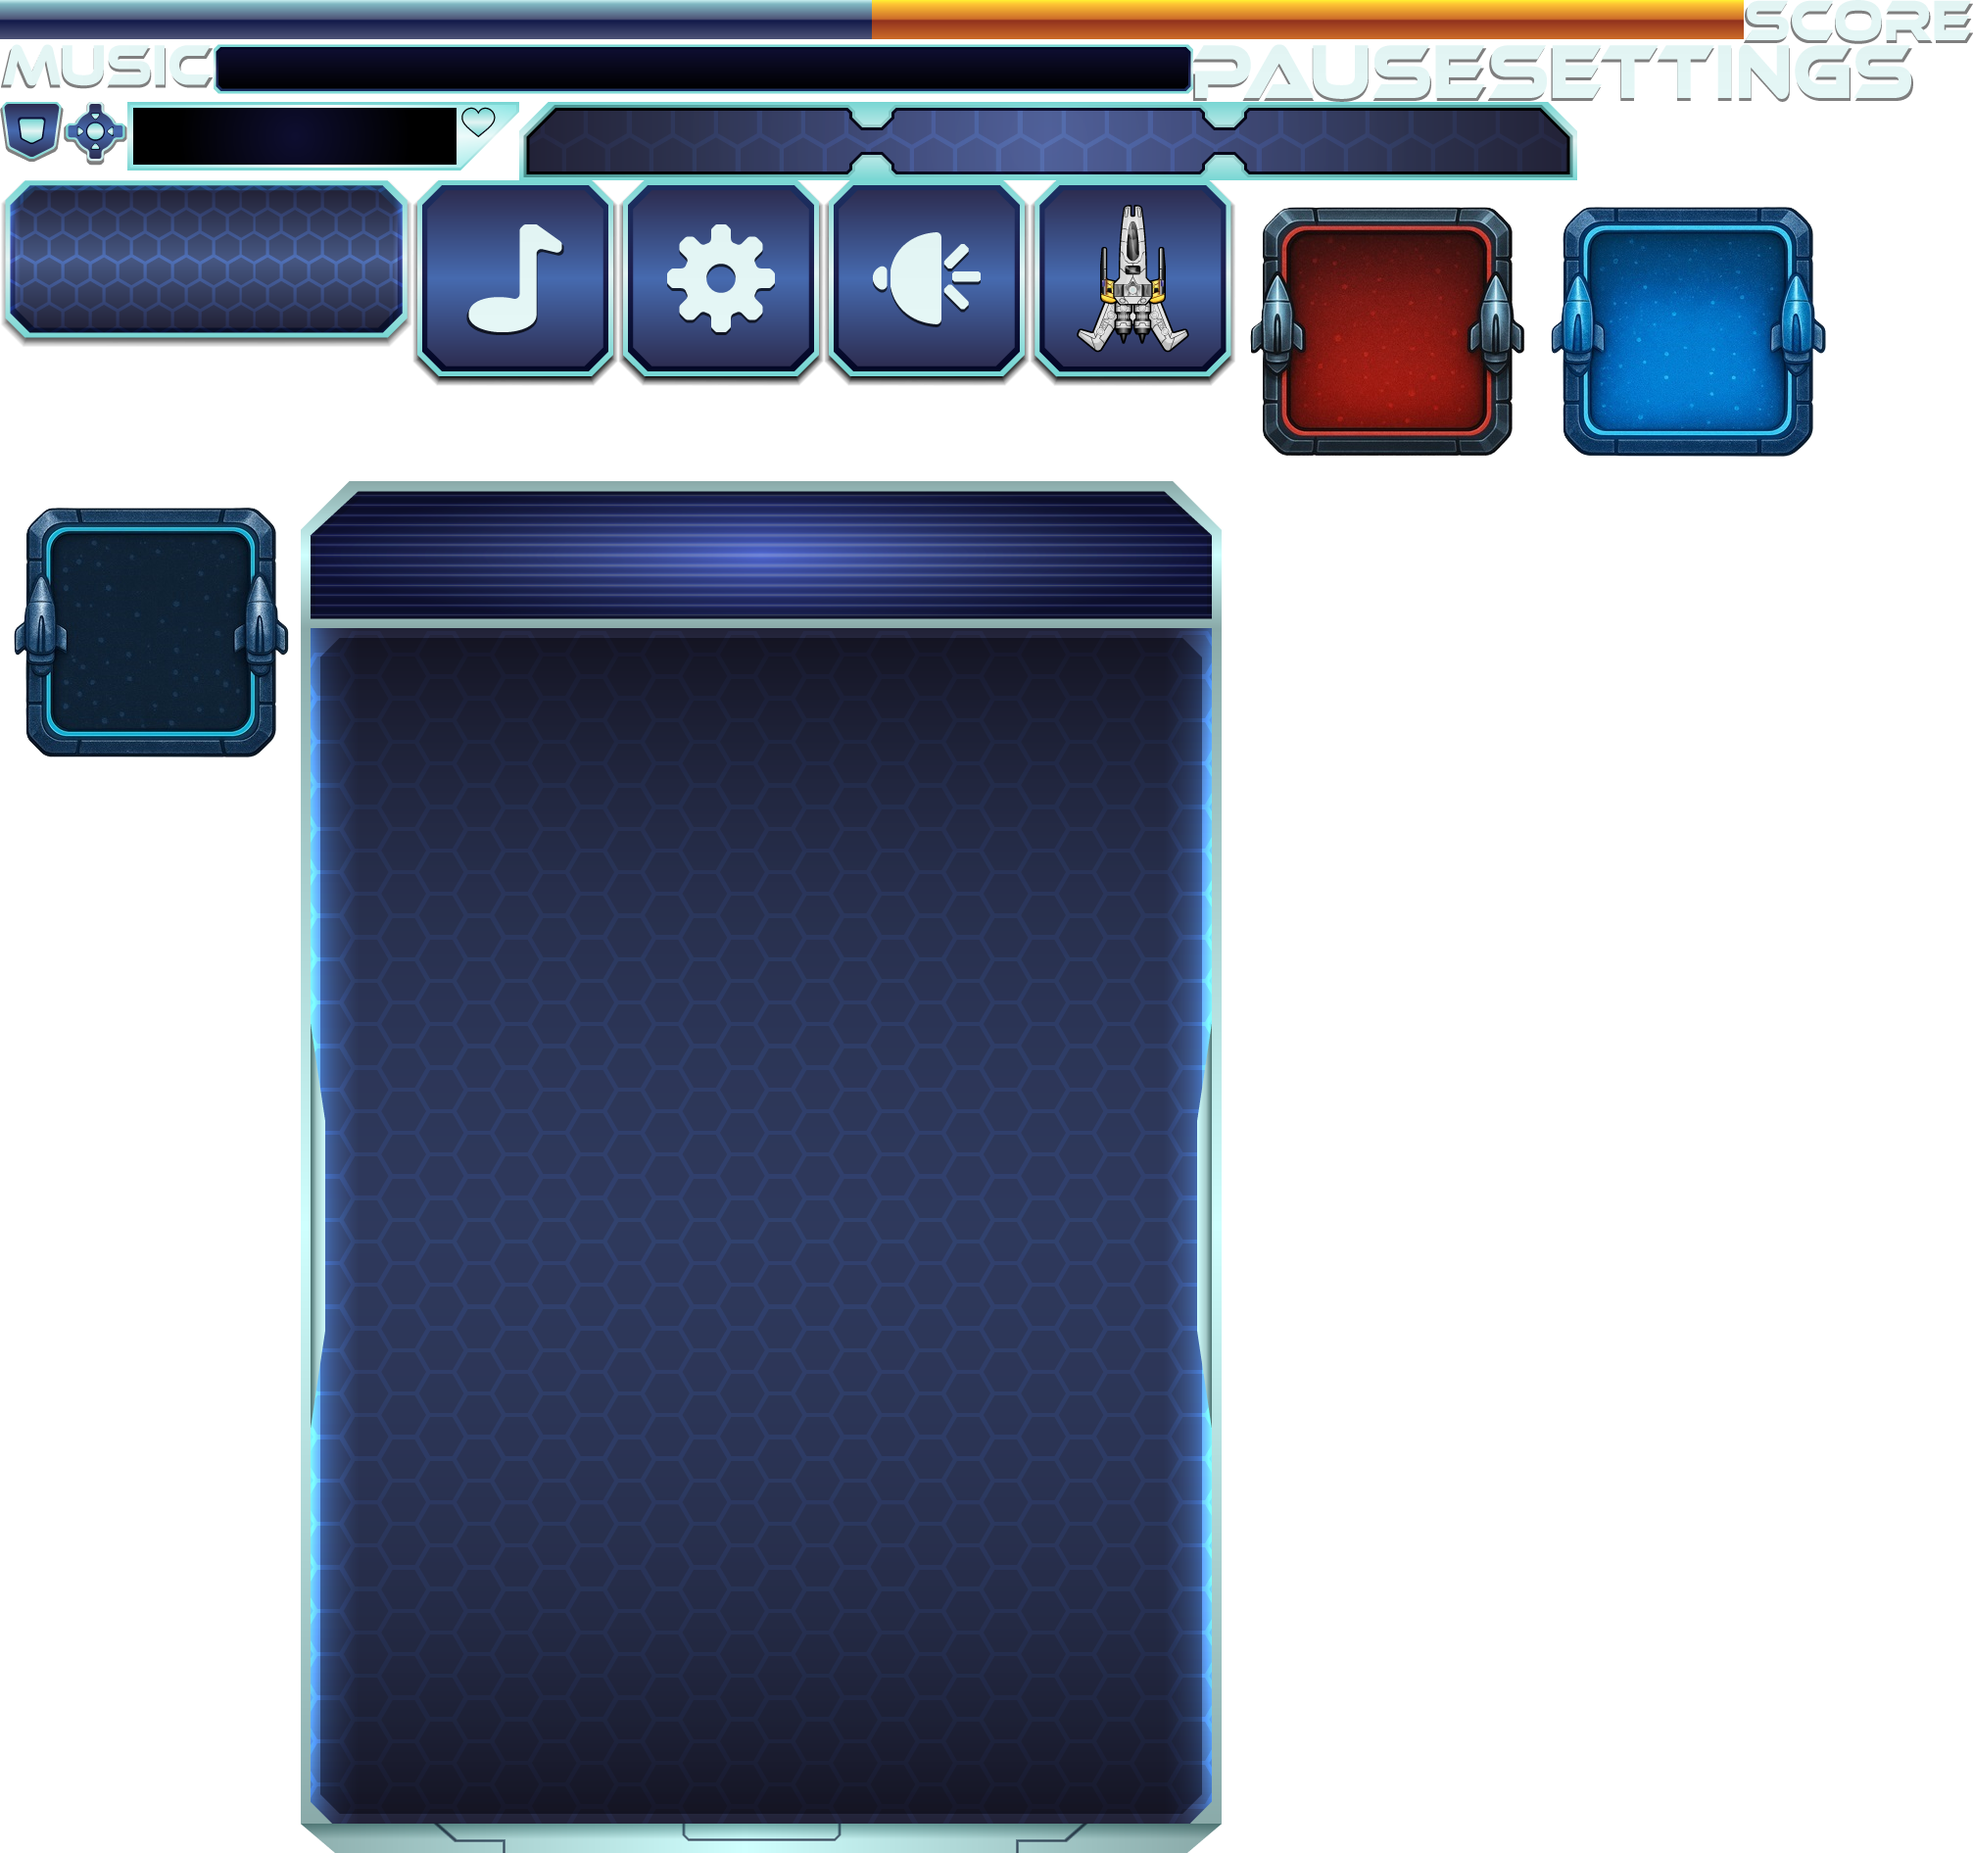
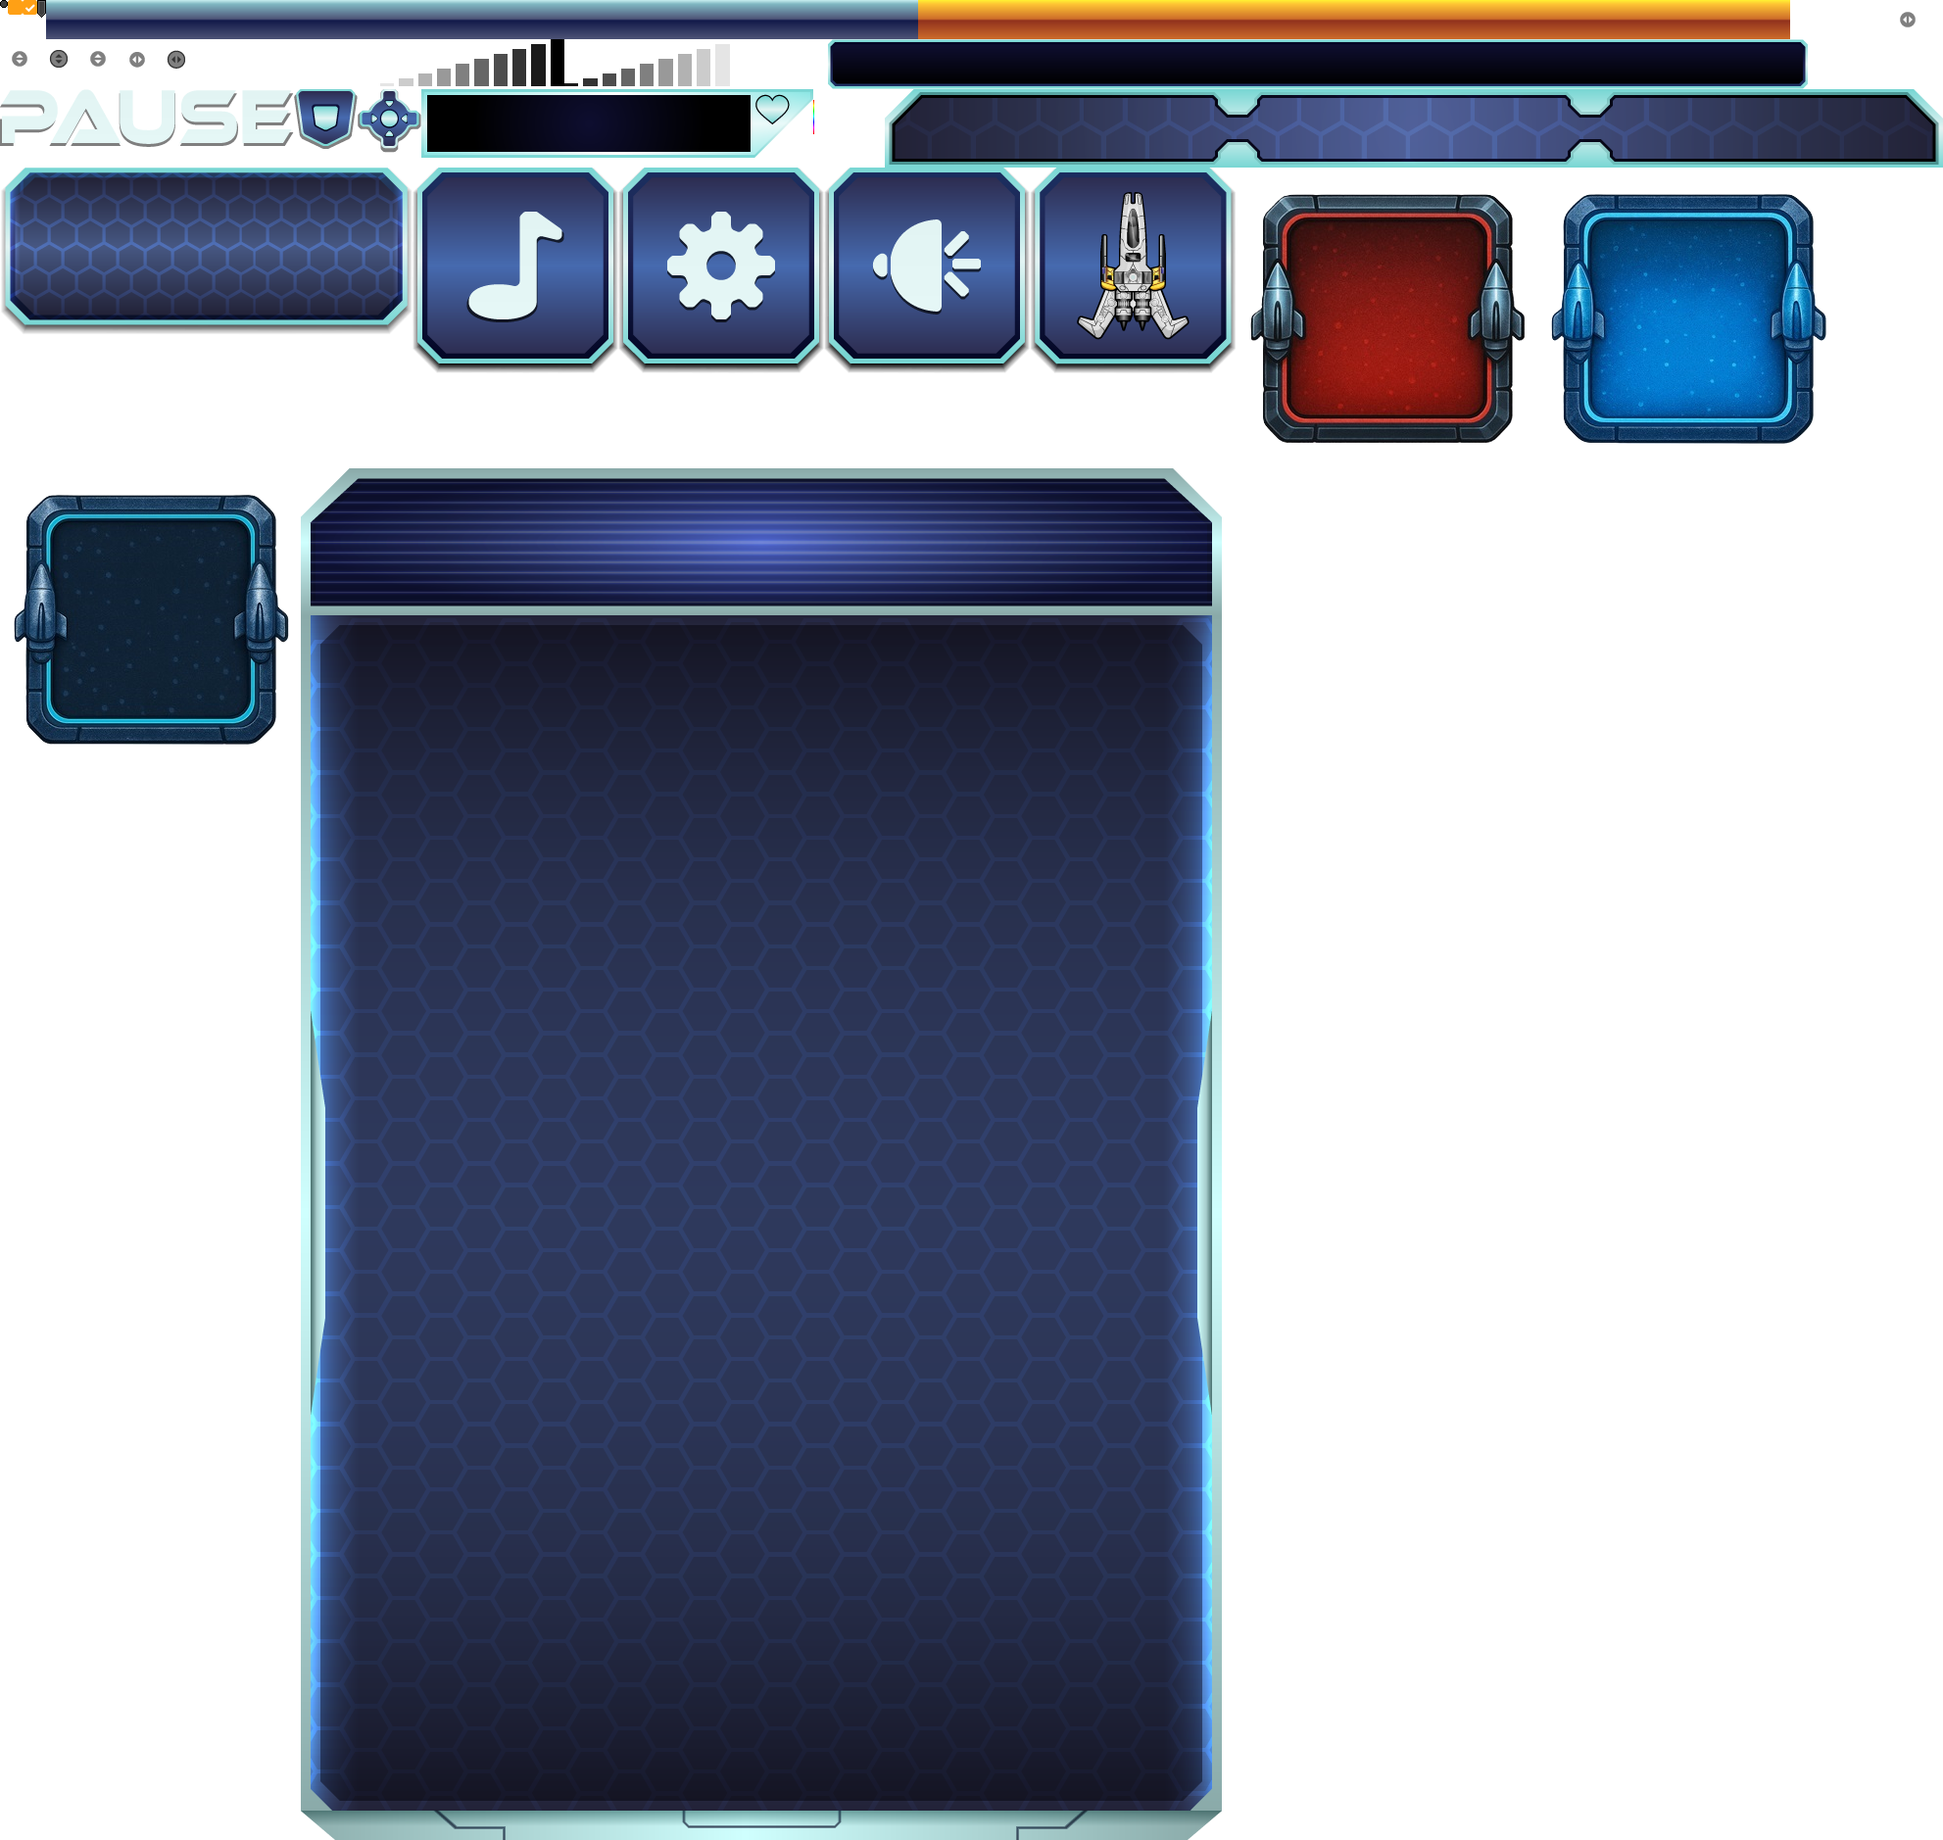
:sparkles: pause screen

Changed region(s): [[0.0, 0.0, 1.0, 0.2471], [0.0, 0.2471, 0.646, 1.0], [0.5229, 0.9883, 0.5537, 1.0]]

diff --git a/core/src/main/java/com/svalero/game/screen/PauseScreen.java b/core/src/main/java/com/svalero/game/screen/PauseScreen.java
@@ -1,6 +1,5 @@
 package com.svalero.game.screen;
 
-
 import com.badlogic.gdx.Gdx;
 import com.badlogic.gdx.Screen;
 import com.badlogic.gdx.graphics.GL20;
@@ -9,6 +8,7 @@ import com.badlogic.gdx.scenes.scene2d.InputEvent;
 import com.badlogic.gdx.scenes.scene2d.Stage;
 import com.badlogic.gdx.scenes.scene2d.ui.*;
 import com.badlogic.gdx.scenes.scene2d.utils.ClickListener;
+import com.badlogic.gdx.scenes.scene2d.utils.TextureRegionDrawable;
 import com.badlogic.gdx.utils.Align;
 import com.badlogic.gdx.utils.Scaling;
 import com.badlogic.gdx.utils.viewport.ScreenViewport;
@@ -19,13 +19,14 @@ import lombok.Data;
 import java.io.File;
 
 import static com.svalero.game.constants.Constants.*;
+import static com.svalero.game.constants.Constants.HEIGHT_BUTTON_GAME_OVER;
 
 @Data
-public class GameOverScreen implements Screen {
+public class PauseScreen implements Screen {
 
     private MyGame game;
 
-    private float score;
+    private GameScreen gameScreen;
 
     private Stage stage;
 
@@ -33,14 +34,13 @@ public class GameOverScreen implements Screen {
 
     private TextureRegion background;
 
-    public GameOverScreen(MyGame game, float score) {
+    public PauseScreen(MyGame game, GameScreen gameScreen) {
         this.game = game;
-        this.score = score;
+        this.gameScreen = gameScreen;
         stage = new Stage(new ScreenViewport());
         Gdx.input.setInputProcessor(stage);
         this.skin = new Skin(Gdx.files.internal(UI + File.separator + MENU_SKIN));
         this.background = R.getUITexture(WINDOW);
-
     }
 
     @Override
@@ -110,25 +110,46 @@ public class GameOverScreen implements Screen {
         table.pad(PADDING_GAME_OVER_TABLE);
 
         // 60% width, 100% height
-        table.setWidth(Gdx.graphics.getWidth() * 0.6f);
-        table.setHeight(Gdx.graphics.getHeight());
+        float tableWidth = Gdx.graphics.getWidth() * 0.6f;
+        float tableHeight = Gdx.graphics.getHeight();
 
-        Label gameOverLabel = new Label("GAME OVER", skin, "title");
-        gameOverLabel.setAlignment(Align.center);
+        table.setSize(tableWidth, tableHeight);
 
-        Label scoreLabel = new Label("SCORE", skin);
-        String formatted = String.format("%06.0f", score);
-        Label scoreValue = new Label(formatted, skin, "title");
+        TextureRegion pauseHeaderRegion = R.getUITexture("Pause-Header");
+        Image pauseHeader = new Image(new TextureRegionDrawable(pauseHeaderRegion));
+        pauseHeader.setScaling(Scaling.fit);
 
-        TextButton newGameBtn = new TextButton("New Game", skin);
+        float headerWidth = tableWidth * 0.4f;
+        float headerHeight = tableHeight * 0.15f;
+
+        Label settingLabel = new Label("SETTING", skin, "title");
+        settingLabel.setAlignment(Align.left);
+
+        CheckBox musicCheckbox = new CheckBox("", skin, "default");
+        musicCheckbox.setChecked(true);
+        Label musicLabel = new Label("Music", skin);
+
+        Table musicRow = new Table();
+        musicRow.add(musicCheckbox).padRight(10);
+        musicRow.add(musicLabel);
+        musicRow.align(Align.left);
+
+        Label volumeLabel = new Label("Volume", skin);
+        Slider volumeSlider = new Slider(0f, 1f, 0.01f, false, skin, "default-horizontal");
+        volumeSlider.getStyle().background.setMinHeight(20); // Altura mínima
+        volumeSlider.setWidth(WIDTH_SLIDER);
+        volumeSlider.getStyle().knob.setMinWidth(WIDTH_KNOB);
+        volumeSlider.getStyle().knob.setMinHeight(HEIGHT_KNOB);
+
+        TextButton resumeBtn = new TextButton("Resume", skin);
         TextButton menuBtn = new TextButton("Return to Main Menu", skin);
         TextButton exitBtn = new TextButton("Exit", skin);
 
         // Listeners
-        newGameBtn.addListener(new ClickListener() {
+        resumeBtn.addListener(new ClickListener() {
             @Override
             public void clicked(InputEvent event, float x, float y) {
-                game.setScreen(new GameScreen(game));
+                game.setScreen(gameScreen);
             }
         });
 
@@ -146,12 +167,16 @@ public class GameOverScreen implements Screen {
             }
         });
 
-        table.add(gameOverLabel).padBottom(PADDING_GAME_OVER_TITLE).row();
-        table.add(scoreLabel).padBottom(PADDING_GAME_OVER_SCORE).row();
-        table.add(scoreValue).padBottom(PADDING_GAME_OVER_SCORE_VALUE).row();
-        table.add(newGameBtn).padBottom(PADDING_BUTTON).width(WIDTH_BUTTON_GAME_OVER).height(HEIGHT_BUTTON_GAME_OVER).row();
-        table.add(menuBtn).padBottom(PADDING_BUTTON).width(WIDTH_BUTTON_GAME_OVER).height(HEIGHT_BUTTON_GAME_OVER).row();
+        table.add(pauseHeader).width(headerWidth).height(headerHeight)
+            .padBottom(PADDING_BUTTON).center().row();
+        table.add(settingLabel).center().padBottom(PADDING_SETTING_LABEL).row();
+        table.add(musicRow).center().padBottom(PADDING_BUTTON).row();
+        table.add(volumeLabel).padBottom(PADDING_BUTTON).center().row();
+        table.add(volumeSlider).width(WIDTH_SLIDER).height(HEIGHT_SLIDER).padBottom(PADDING_BUTTON).row();
+        table.add(resumeBtn).width(WIDTH_BUTTON_GAME_OVER).height(HEIGHT_BUTTON_GAME_OVER).padBottom(PADDING_BUTTON).row();
+        table.add(menuBtn).width(WIDTH_BUTTON_GAME_OVER).height(HEIGHT_BUTTON_GAME_OVER).padBottom(PADDING_BUTTON).row();
         table.add(exitBtn).width(WIDTH_BUTTON_GAME_OVER).height(HEIGHT_BUTTON_GAME_OVER).row();
+
         return table;
     }
 }

diff --git a/core/src/main/java/com/svalero/game/managers/LogicManager.java b/core/src/main/java/com/svalero/game/managers/LogicManager.java
@@ -4,10 +4,13 @@ import com.badlogic.gdx.Gdx;
 import com.badlogic.gdx.Input;
 import com.badlogic.gdx.math.Rectangle;
 import com.badlogic.gdx.math.Vector2;
+import com.badlogic.gdx.utils.TimeUtils;
 import com.svalero.game.MyGame;
 import com.svalero.game.characters.*;
 import com.svalero.game.characters.Character;
 import com.svalero.game.screen.GameOverScreen;
+import com.svalero.game.screen.GameScreen;
+import com.svalero.game.screen.PauseScreen;
 import com.svalero.game.utils.Level;
 import lombok.AllArgsConstructor;
 import lombok.Data;
@@ -41,9 +44,14 @@ public class LogicManager {
 
     private float levelCompleteTimer;
 
+    private GameScreen gameScreen;
 
-    public LogicManager(MyGame game) {
+    private float freezeTime;
+
+
+    public LogicManager(MyGame game, GameScreen gameScreen) {
         this.game = game;
+        this.gameScreen = gameScreen;
         this.ranger = new Ranger();
         this.enemyManager = new EnemyManager();
         this.levelManager = new LevelManager();
@@ -51,6 +59,7 @@ public class LogicManager {
         this.numberLevel = 1;
         this.isLevelOver = false;
         this.levelCompleteTimer = 0;
+        this.freezeTime = 0;
         initializeLevel();
     }
 
@@ -119,9 +128,16 @@ public class LogicManager {
         if(Gdx.input.isKeyPressed(Input.Keys.S)){
             ranger.createProjectile();
         }
+
+        //Pause
+        if (Gdx.input.isKeyPressed(Input.Keys.ESCAPE)) {
+            freezeTime = TimeUtils.nanoTime() / 1_000_000_000f;
+            game.setScreen(new PauseScreen(game, gameScreen));
+        }
     }
 
     public void update(float dt) {
+
         handleInput(dt);
         ranger.update(dt);
         enemyManager.update(dt, ranger.getPosition());
@@ -258,5 +274,17 @@ public class LogicManager {
             }else
                 index++;
         }
+    }
+
+    public void adjustFreezeTime(){
+        float now = TimeUtils.nanoTime() / 1_000_000_000f;
+        float pausedDuration = now - freezeTime;
+        ranger.setLastShot(ranger.getLastShot() + pausedDuration);
+        for(Character enemy: enemyManager.getEnemies()){
+            //TODO actualizo a todos aunque no disparen
+            //Pendiente de refactorizar enemymanager
+            enemy.setLastShot(enemy.getLastShot() + pausedDuration);
+        }
+        freezeTime = 0;
     }
 }

diff --git a/core/src/main/java/com/svalero/game/constants/Constants.java b/core/src/main/java/com/svalero/game/constants/Constants.java
@@ -82,8 +82,13 @@ public interface Constants {
     float PADDING_GAME_OVER_TITLE = 40;
     float PADDING_GAME_OVER_SCORE = 10;
     float PADDING_GAME_OVER_SCORE_VALUE = 60;
-    float WIDTH_BUTTON_GAME_OVER = 400;
-    float HEIGHT_BUTTON_GAME_OVER = 100;
+    float WIDTH_BUTTON_GAME_OVER = 660;
+    float HEIGHT_BUTTON_GAME_OVER = 120;
+    float PADDING_SETTING_LABEL = 10;
+    float WIDTH_SLIDER = 200;
+    float HEIGHT_SLIDER = 20;
+    float WIDTH_KNOB = 20;
+    float HEIGHT_KNOB = 40;
 
     //Config game
 

diff --git a/core/src/main/java/com/svalero/game/screen/SplashScreen.java b/core/src/main/java/com/svalero/game/screen/SplashScreen.java
@@ -41,9 +41,8 @@ public class SplashScreen implements Screen {
         skin = new Skin(Gdx.files.internal(UI + File.separator + MENU_SKIN));
 
         // Crear ProgressBar
-        ProgressBar.ProgressBarStyle style = new ProgressBar.ProgressBarStyle();
 
-        progressBar = new ProgressBar(0f, 1f, 0.01f, false, style);
+        progressBar = new ProgressBar(0f, 1f, 0.01f, false, skin, "default");
         progressBar.setAnimateDuration(0.25f);
         progressBar.setValue(0);
 

diff --git a/core/src/main/java/com/svalero/game/screen/GameScreen.java b/core/src/main/java/com/svalero/game/screen/GameScreen.java
@@ -21,12 +21,14 @@ public class GameScreen implements Screen {
     }
 
     private void loadManagers(MyGame game) {
-        logicManager = new LogicManager(game);
+        logicManager = new LogicManager(game, this);
         renderManager = new RenderManager(logicManager);
     }
 
     @Override
     public void show() {
+        if(logicManager.getFreezeTime() > 0)
+            logicManager.adjustFreezeTime();
     }
 
     @Override
